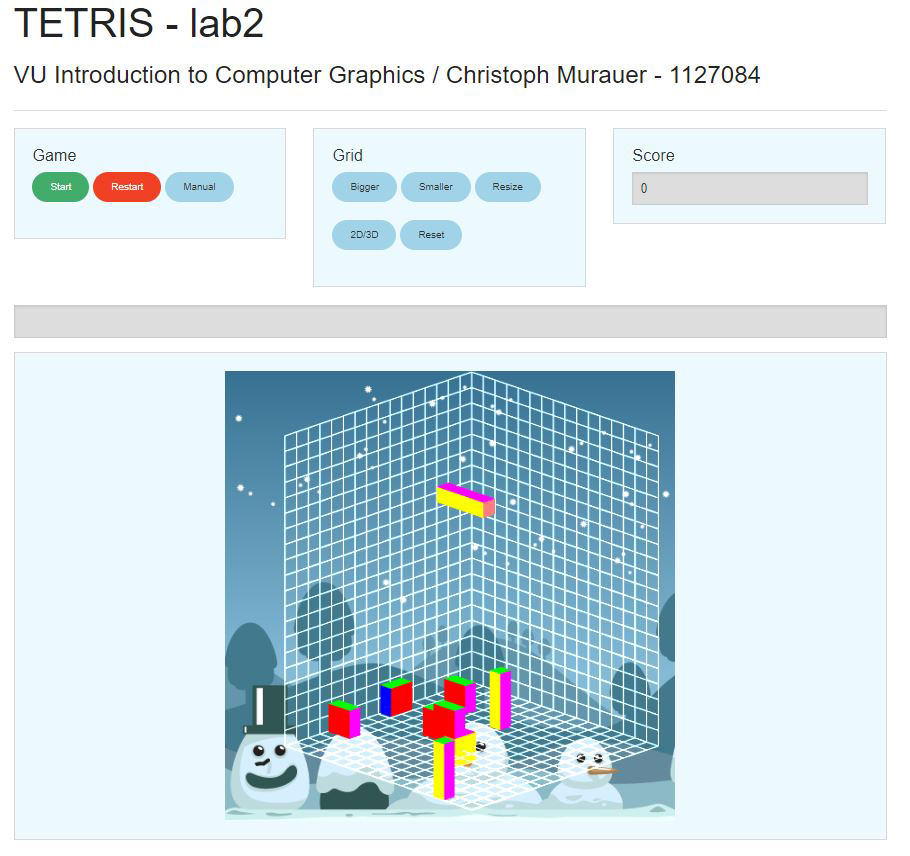
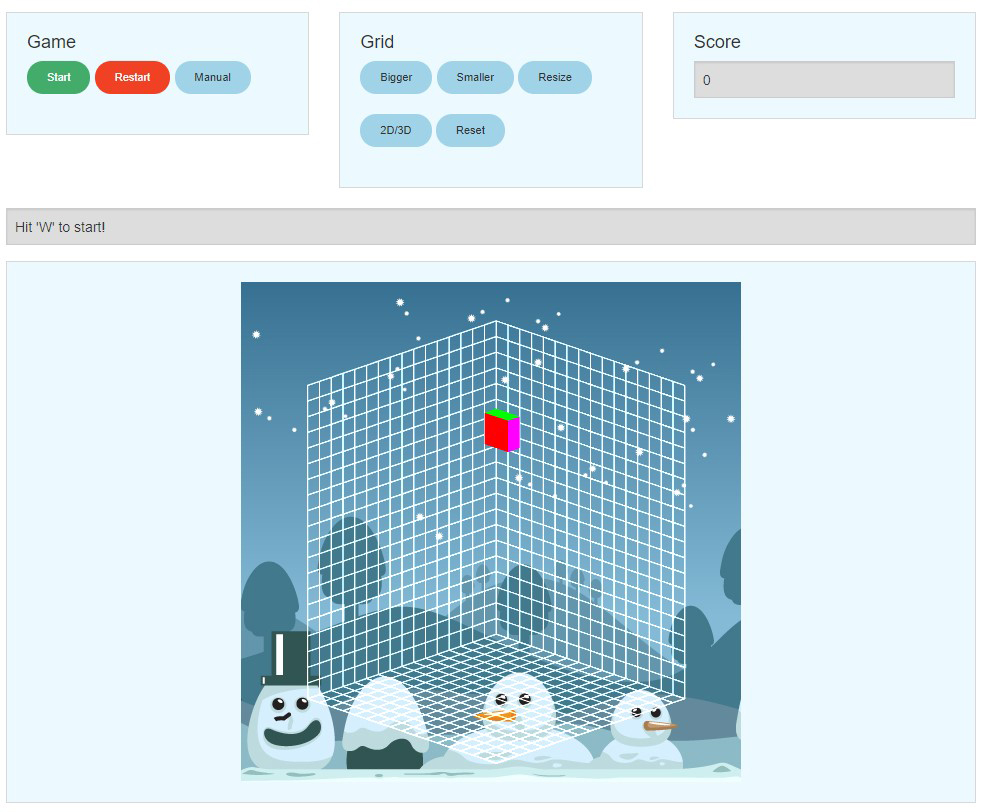
wording

diff --git a/Start.html b/Start.html
@@ -3,7 +3,7 @@
 
 	<head>
 	
-		<title>Tetris - lab2</title>
+		<title>Tetris 3D (Prototyp)</title>
 		<meta http-equiv="content-type" content="text/html; charset=ISO-8859-1">
 		<link rel="icon" href="img/favicon.ico" type="image/x-icon">
 		<link rel="stylesheet" href="css/foundation.css" />
@@ -98,8 +98,7 @@
 	    
 	  <div class="row">
       	<div class="large-12 medium-12 columns">
-        	<h1>TETRIS - lab2</h1>
-	        <h3>VU Introduction to Computer Graphics / Christoph Murauer - 1127084</h3>
+        	<h1>TETRIS 3D</h1>
 	        <hr>
 	    </div>
 	     
